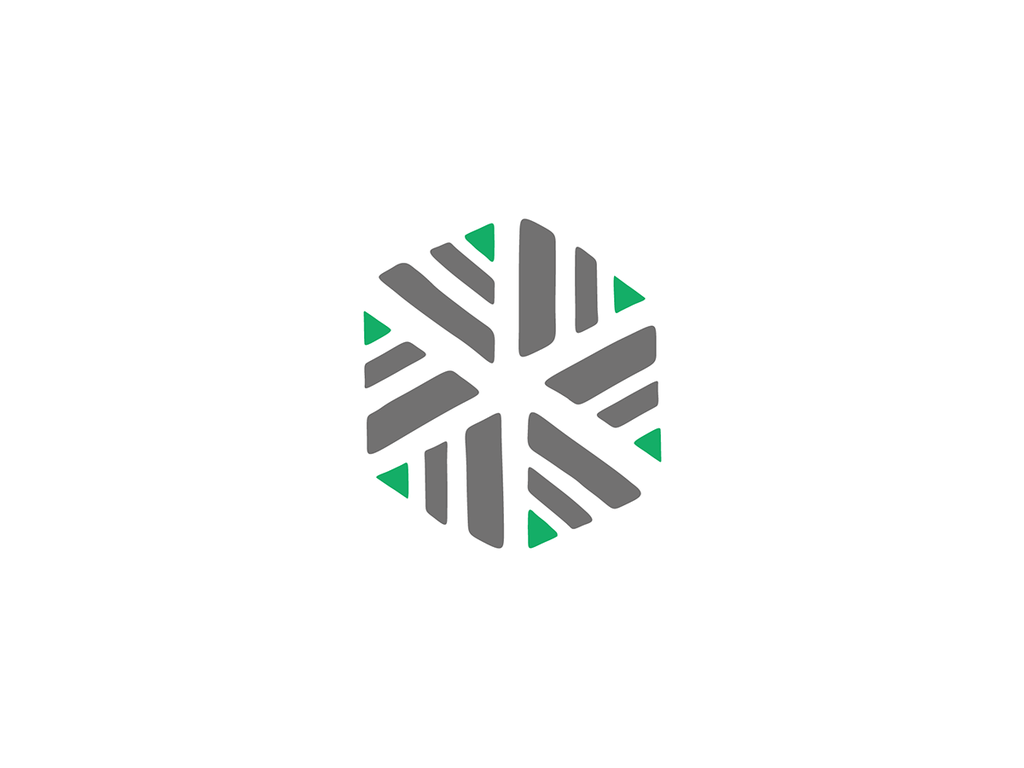
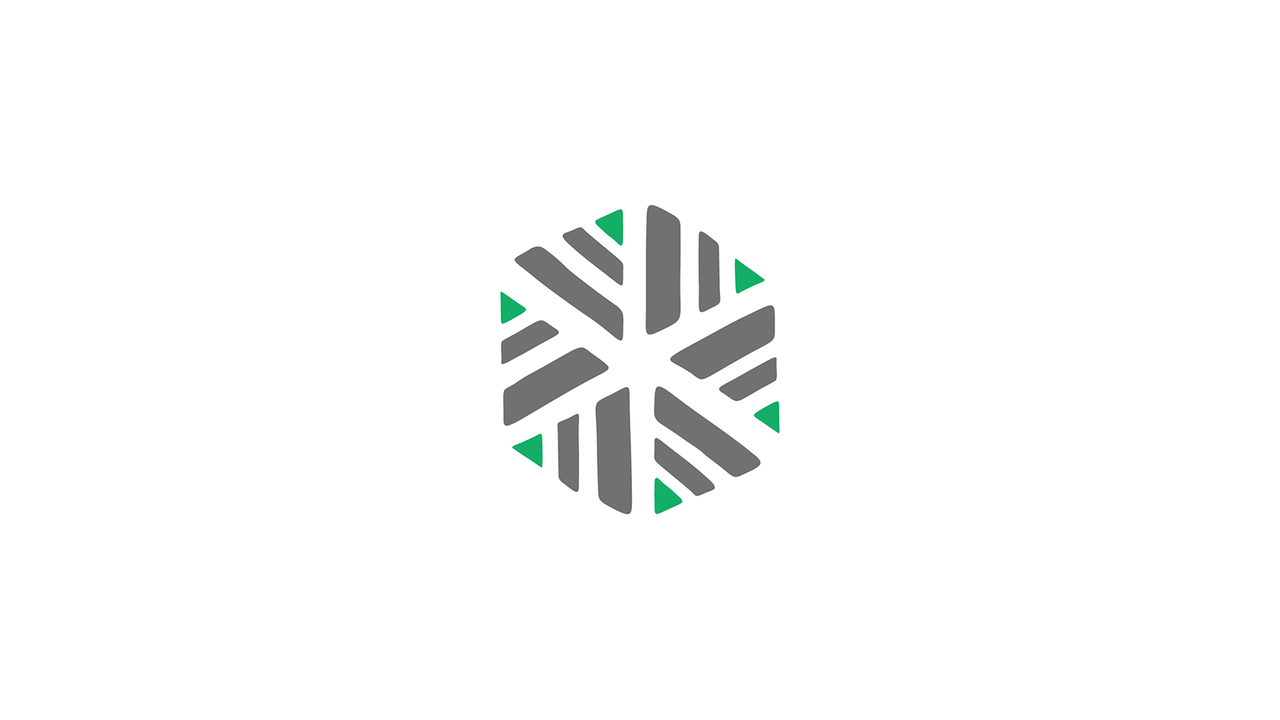
modified index&&mobile_view

Changed region(s): [[0.3438, 0.275, 0.6562, 0.7333]]

diff --git a/app/models/content.rb b/app/models/content.rb
@@ -16,7 +16,7 @@ class Content < ActiveRecord::Base
   enum status: [:draft, :pending, :approved, :rejected, :published, :archived]
   enum content_type: [:article, :album, :video, :special]
 
-  has_attached_file :header_image, :styles => { :medium => "1024x768#", :thumb => "400x300#" }
+  has_attached_file :header_image, :styles => { :medium => "1280x720#", :thumb => "480x272#" }
   validates_attachment_content_type :header_image, :content_type => /\Aimage\/.*\Z/
 
   paginates_per 23
